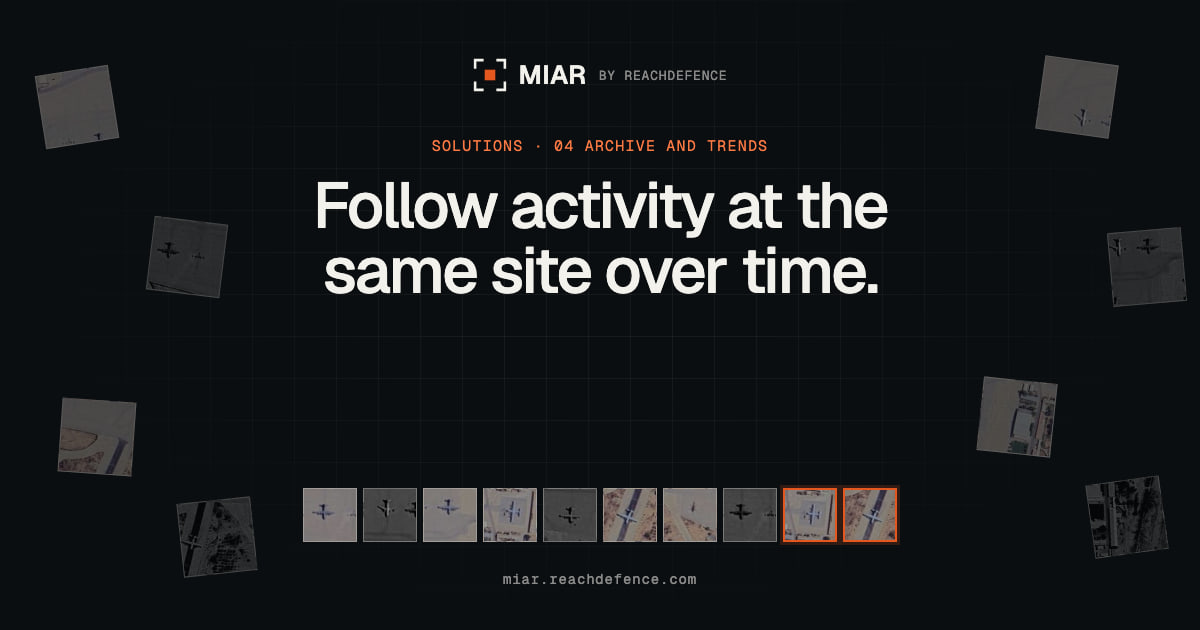
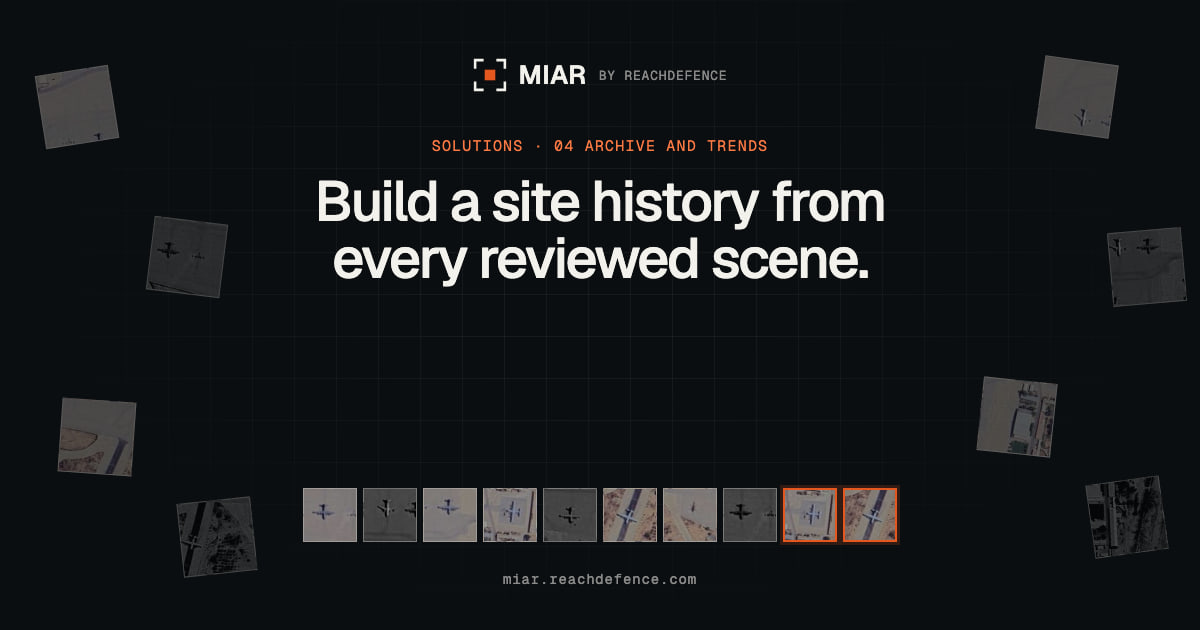
Rewrite solutions copy to the writing standard
- All five solution pages rewritten in operational language: scene, last
  usable scene, site record, detection, qualified finding, published
- Pull quotes replaced by a worked example from a pass that matches each
  page's visual; decorative quote marks removed from question lines
- Each page states its mechanism, failure mode and limits (role-level calls,
  ORBAT dependency for posture, revisit limiting trends, accreditation cycle)
- Solutions index intro rewritten; em-dash label placeholders removed
- Social cards regenerated for the new titles

Changed region(s): [[0.2467, 0.2714, 0.74, 0.4825]]

diff --git a/src/data/solutions.ts b/src/data/solutions.ts
@@ -6,7 +6,7 @@ export type Solution = {
   question: string;
   title: string;
   summary: string;
-  thesis: string;
+  example: string;
   problemTitle: string;
   problem: string;
   approachTitle: string;
@@ -17,36 +17,40 @@ export type Solution = {
   visual: "scene" | "monitor" | "compare" | "trend" | "delivery";
 };
 
+// Terms used consistently across these pages:
+// scene (the imagery product), last usable scene (the baseline), site record,
+// detection (detector output) becoming a finding once an analyst qualifies it, published.
+
 export const solutions: Solution[] = [
   {
     slug: "tactical-isr",
     number: "01",
     eyebrow: "Tactical ISR",
     name: "Tactical ISR",
-    question: "What is at the site right now?",
-    title: "See what is happening at a monitored site now.",
+    question: "What is on the site in the latest scene, and what is different?",
+    title: "Exploit each new scene of a site against its last usable scene.",
     summary:
-      "Review the latest imagery of an airfield, base, port, route, or launch area against what was there before.",
-    thesis:
-      "The latest pass is useful when an analyst can place it against a known baseline and answer the question at hand.",
-    problemTitle: "A new image still needs context.",
+      "For airbases, naval bases, ports and garrisons under routine watch. MIAR co-registers each new scene to the site's last usable scene, runs the aircraft and ship detectors, and lists what is new, moved or absent for the analyst to qualify.",
+    example:
+      "A 0.5 m EO scene of an airbase arrives at 06:42Z. The two passes before it were more than 80% cloud, so the last usable scene is four days old. MIAR compares against that scene, finds seven aircraft and flags four as off their previous stands. The analyst reviews those four detections first instead of recounting the whole apron.",
+    problemTitle: "Every new scene starts with a manual recount.",
     problem:
-      "An image may show aircraft, vehicles, equipment, or construction. It does not say which activity is new, whether it is routine, or what deserves attention. That judgement requires comparison and review.",
-    approachTitle: "Review the latest pass against a known baseline.",
+      "Before anything in a new scene can be called new, the analyst has to find the previous usable scene, often in a different provider portal, allow for a different look angle and sun position, and recount the site. Across a watchlist of dozens of sites with daily revisit, that recount takes most of the day and is repeated on every pass.",
+    approachTitle: "Compare with the last usable scene and queue only the differences.",
     approach: [
-      "Place current and earlier images of the same site in one review sequence.",
-      "Surface visible objects and scene differences for analyst confirmation.",
-      "Keep the source image, comparison, confidence, and review decision together.",
+      "Orthorectify the new scene and co-register it to the last usable scene of the same site. Passes above the cloud threshold or outside the look-angle limit are not used as baselines.",
+      "Run the aircraft and ship detectors, then match each detection to the previous scene by position and type: held, moved, new or absent.",
+      "Queue the new, moved and absent detections for the analyst, highest confidence first, with chips from both scenes side by side.",
     ],
+    outputTitle: "A qualified current-state record of the site.",
     outputs: [
-      "Current asset count by visible class",
-      "Movement and site-status observations",
-      "Analyst-reviewed findings",
-      "Source imagery and comparison evidence",
+      "Detections by class and type, each with its confidence",
+      "Held, moved, new and absent status against the last usable scene",
+      "The analyst's decision and note on each flagged detection",
+      "Both source scenes, with acquisition time, GSD and look angle",
     ],
-    outputTitle: "A current assessment with the evidence attached.",
     outcome:
-      "The result is a concise account of what is present and what changed, backed by the imagery used to reach it.",
+      "The finding is published to the operational picture as soon as the flagged detections are qualified. Where the scene only supports a role call, the aircraft is published at role level until a better scene arrives.",
     visual: "scene",
   },
   {
@@ -54,30 +58,31 @@ export const solutions: Solution[] = [
     number: "02",
     eyebrow: "Asset Monitoring",
     name: "Asset monitoring",
-    question: "How many, of what, and exactly where?",
-    title: "Maintain a current picture of assets at high-value sites.",
+    question: "How many of each type are on the site, and where is each one parked?",
+    title: "Count aircraft and ships by type, and keep where each one was.",
     summary:
-      "Count and locate visible aircraft, vessels, vehicles, and equipment across repeated coverage of the same site.",
-    thesis:
-      "Five aircraft in a hardened shelter area can mean something different from five aircraft dispersed across an apron.",
-    problemTitle: "The count is only part of the picture.",
+      "Counts by type for every reviewed scene of a site, with each detection's position kept against the installation layout. A change in dispersal or parking pattern is recorded even when the totals stay the same.",
+    example:
+      "Two scenes a week apart both show five transport aircraft and one maritime patrol aircraft. In the second scene two of the transports have moved from the main apron to the eastern hardstand, and a helicopter has arrived. A register of totals records no change for the transports. The MIAR register records the same count, the two stand changes and the new helicopter.",
+    problemTitle: "A register of totals loses dispersal.",
     problem:
-      "Manual counts take time and vary between reviewers. Counts also miss changes in spacing, concentration, dispersal, and placement that may matter more than the total.",
-    approachTitle: "Count the assets. Keep their position and layout.",
+      "On a busy apron, manual counts by different analysts on different days disagree by one or two airframes, and a spreadsheet of totals keeps no record of where each aircraft was. Dispersal to hardstands, movement into shelters and concentration on one apron are the changes an ORBAT team needs, and they are lost once only the number is written down.",
+    approachTitle: "Detect by type, keep each position, and have the analyst confirm.",
     approach: [
-      "Detect and tabulate visible assets by class.",
-      "Compare their position, spacing, and distribution with earlier scenes.",
-      "Require analyst qualification before a detection is treated as reviewed intelligence.",
+      "Detect aircraft and ships as oriented boxes and classify them down the class, family and type hierarchy. Where the scene cannot support a type call, the detection stays at role level.",
+      "Store each detection's position against the site's installation layout: apron, hardstand, shelter row or berth.",
+      "Compare the layout with the previous reviewed scene and mark stand and berth changes as well as count changes.",
+      "Write only analyst-qualified detections into the register.",
     ],
+    outputTitle: "A register of what was where, scene by scene.",
     outputs: [
-      "Counts by visible asset class",
-      "Changes in distribution and density",
-      "Site-level review notes",
-      "Review history and source provenance",
+      "Counts by class and type",
+      "Position of each asset against the installation layout",
+      "Stand and berth changes against the previous reviewed scene",
+      "The scene reference and analyst decision behind every row",
     ],
-    outputTitle: "A site record that preserves more than totals.",
     outcome:
-      "Each review adds to a site record showing what was present, where it was located, and how the layout changed.",
+      "The register feeds ORBAT strength and disposition directly. Aircraft held at role level are counted at role level, so strength by type is never raised by an unconfirmed type call.",
     visual: "monitor",
   },
   {
@@ -85,30 +90,31 @@ export const solutions: Solution[] = [
     number: "03",
     eyebrow: "Change and Posture",
     name: "Change and posture",
-    question: "Is this routine movement, or something new?",
+    question: "Is a change at the site routine, or a change in posture?",
     title: "Separate routine movement from a change in posture.",
     summary:
-      "Compare two scenes, identify the objects involved, and review whether the difference matters.",
-    thesis:
-      "The relevant question is not whether the pixels changed. It is what changed on the ground.",
-    problemTitle: "Most visible change is not a warning.",
+      "Object-level change detection between two scenes of the same site, correlated with the installation layout and the ORBAT. Analysts review changes to the objects on the ground, with differences caused by shadow, season or viewing geometry filtered out before review.",
+    example:
+      "Pixel differencing of the 2025 and 2026 scenes of the monitored airbase flags long shadows, a resurfaced taxiway and a dozen vehicles. The object-level comparison reports the same six fixed-wing aircraft, three of them in new positions with one on the taxiway, and a rotary-wing aircraft that was not in the earlier scene. Those four changes are the only items sent to the analyst.",
+    problemTitle: "Most pixel change comes from geometry, light and season.",
     problem:
-      "Cloud, shadow, season, viewing angle, construction, and routine movement can all trigger a change result. Without object and site context, the analyst receives noise.",
-    approachTitle: "Identify the object before judging the change.",
+      "Two scenes taken months apart differ in sun angle, shadow length, look angle, atmosphere and often sensor. Differencing the pixels turns all of that into candidate change. Without knowing which objects are present and where the installation's aprons, shelters and berths are, the analyst has to dismiss most of the flags by eye.",
+    approachTitle: "Compare objects, then assess the change against the site.",
     approach: [
-      "Align the current scene with the selected baseline.",
-      "Check detected objects, movement, structures, and layout together.",
-      "Send material differences to an analyst for disposition.",
+      "Co-register both scenes and limit the comparison to the installation's operating areas.",
+      "Match detections between the scenes by position and type instead of differencing pixels.",
+      "Correlate the changes with the site's ORBAT entry and its recent activity, so a routine rotation is assessed differently from a surge or a dispersal.",
+      "Send material changes to the analyst to accept, reject or annotate.",
     ],
+    outputTitle: "A reviewed change with its basis recorded.",
     outputs: [
-      "Before-and-after evidence",
-      "Object, position, and layout differences",
-      "Analyst disposition",
-      "Confidence and source provenance",
+      "Baseline and current scene chips for each change",
+      "Object, position and layout differences",
+      "The analyst's disposition and note",
+      "Detection confidence and scene provenance",
     ],
-    outputTitle: "A reviewed change with a clear basis.",
     outcome:
-      "The analyst can see the baseline, the current scene, the detected difference, and the reason a change was accepted or dismissed.",
+      "The posture assessment depends on ORBAT context. For a site with no ORBAT entry, MIAR still reports object-level change, and the posture call is left to the analyst.",
     visual: "compare",
   },
   {
@@ -116,30 +122,30 @@ export const solutions: Solution[] = [
     number: "04",
     eyebrow: "Archive and Trends",
     name: "Archive and trends",
-    question: "Is activity building up or winding down?",
-    title: "Follow activity at the same site over time.",
+    question: "Is activity at the site rising, falling or recurring?",
+    title: "Build a site history from every reviewed scene.",
     summary:
-      "Use earlier scenes and reviewed detections to see how a site changes across days, weeks, or longer periods.",
-    thesis:
-      "One image shows a moment. A sequence shows whether the activity is normal, rising, falling, or recurring.",
-    problemTitle: "A single scene hides the pattern.",
+      "Counts by type from every qualified scene of a site, plotted across weeks or months, with each point linked to the scene it came from.",
+    example:
+      "Across twelve monthly passes of the same airbase, transport presence stays between four and six aircraft. Rotary-wing aircraft appear for the first time in September and reach two by December. Exploited one delivery at a time, each of those scenes looks routine.",
+    problemTitle: "Single scenes hide slow build-ups and rotations.",
     problem:
-      "Reviewing each delivery in isolation makes it difficult to spot buildup, dispersal, recurring activity, or a change in the mix of assets at a site.",
-    approachTitle: "Use the same classes and questions across each review.",
+      "When each delivery is exploited on its own, the only comparison is with the previous scene. A build-up over several months, a weekly rotation or a new type arriving in small numbers never appears as one large change, so it goes unnoticed until someone rebuilds the history by hand from old reports.",
+    approachTitle: "Keep the class hierarchy fixed so every scene is comparable.",
     approach: [
-      "Select and align historical images of the site.",
-      "Record confirmed detections using a consistent class structure.",
-      "Plot presence by type while keeping every data point linked to its source scene.",
+      "Pull archive scenes of the site from licensed catalogues or public missions such as Sentinel and Landsat, and co-register them to the site.",
+      "Exploit every scene with the same detector version and class hierarchy, so a count from March means the same as a count from September.",
+      "Record only qualified detections in the history, and show gaps where no usable scene exists instead of interpolating across them.",
     ],
+    outputTitle: "A trend that traces back to the imagery.",
     outputs: [
-      "Image history for the site",
-      "Asset presence by type",
-      "Buildup and dispersal observations",
-      "Before-and-after comparisons",
+      "Presence by type for each reviewed scene",
+      "Build-up, dispersal and first-seen markers",
+      "Gaps marked where no usable scene exists",
+      "A link from every data point to its source scene",
     ],
-    outputTitle: "A site history that remains tied to the imagery.",
     outcome:
-      "Analysts can inspect the trend, open the scene behind any observation, and distinguish a one-off event from a sustained pattern.",
+      "What the trend can show is limited by revisit. At monthly revisit a weekly rotation is invisible, so the history shows the revisit interval alongside the counts and marks where more frequent collection would be needed to answer the question.",
     visual: "trend",
   },
   {
@@ -147,30 +153,31 @@ export const solutions: Solution[] = [
     number: "05",
     eyebrow: "Sovereign Delivery",
     name: "Sovereign delivery",
-    question: "Can we run this inside our own boundary?",
-    title: "Keep mission data and reviewed outputs under customer control.",
+    question: "Can exploitation run inside our own network, including disconnected?",
+    title: "Run exploitation and publishing inside the customer's boundary.",
     summary:
-      "Support controlled deployment and delivery where the customer retains authority over imagery, review, detectors, and approved findings.",
-    thesis:
-      "Using more than one imagery provider should not force the analysis and review process into more than one provider portal.",
-    problemTitle: "Every handoff adds a control point.",
+      "MIAR deploys on customer-controlled infrastructure, including disconnected networks. Imagery, detectors, analyst decisions and published findings stay inside that boundary, and nothing is published without analyst approval.",
+    example:
+      "In a disconnected deployment, scenes arrive over the customer's own delivery path, the detectors run on local hardware, and qualified findings are published to the customer's ORBAT and GIS services. Once the scene has been received the external network can be disconnected, and the exploitation thread still completes.",
+    problemTitle: "Each provider portal is another copy of the data.",
     problem:
-      "Imagery may pass through provider portals, processing systems, review teams, and downstream consumers. Access, provenance, and approval state need to survive those handoffs.",
-    approachTitle: "Keep collection sources separate from review authority.",
+      "Buying from several imagery providers usually means several portals, each with its own storage, viewer and export format. Scenes are copied between them and onto analysts' workstations, and the record of who reviewed what, and which version was briefed, is split across those copies.",
+    approachTitle: "One exploitation environment behind every provider, under customer control.",
     approach: [
-      "Accept imagery from multiple providers into one downstream review process.",
-      "Attach evidence, analyst action, and approval state to each derived finding.",
-      "Support controlled integration and deployment patterns, including sovereign environments where required.",
+      "Ingest each provider's deliveries in their native formats, such as GeoTIFF or COG, NITF, JPEG 2000 and STAC, into one environment.",
+      "Run detection, comparison and analyst review inside that environment, with access managed through the customer's identity provider.",
+      "Publish qualified findings to existing systems over OGC API, WFS or GeoJSON, with provenance attached.",
+      "Deploy on premises, in a sovereign cloud or on an air-gapped network.",
     ],
+    outputTitle: "Findings that keep their evidence chain inside the boundary.",
     outputs: [
-      "Controlled intelligence delivery",
-      "Provenance attached to reviewed findings",
-      "API and briefing-ready output formats",
-      "Deployment options aligned with customer authority",
+      "Published findings with the scene, detector version and analyst decision attached",
+      "Feeds for ORBAT, GIS and briefing systems",
+      "An audit log of every review and export",
+      "Deployment on premises, in a sovereign cloud or disconnected",
     ],
-    outputTitle: "Reviewed intelligence that keeps its chain of evidence.",
     outcome:
-      "MIAR sits between imagery supply and the teams or systems that consume reviewed intelligence, without claiming ownership of the collection itself.",
+      "In a disconnected deployment, detector updates arrive through the customer's own transfer process, so model updates follow the customer's accreditation cycle rather than a vendor release schedule.",
     visual: "delivery",
   },
 ];

diff --git a/src/styles/global.css b/src/styles/global.css
@@ -2175,13 +2175,7 @@ h3 {
   letter-spacing: -0.01em;
 }
 
-.case-q::before {
-  content: "“";
-}
 
-.case-q::after {
-  content: "”";
-}
 
 .case-arrow {
   justify-self: end;
@@ -3167,15 +3161,7 @@ h3 {
   max-width: 900px;
 }
 
-.solution-thesis blockquote::before {
-  content: "“";
-  color: var(--signal);
-}
 
-.solution-thesis blockquote::after {
-  content: "”";
-  color: var(--signal);
-}
 
 @media (max-width: 860px) {
   .solution-thesis {
@@ -5633,4 +5619,15 @@ body:has(.field-hero.is-flow) .site-header-home:not(.is-scrolled) {
   border-bottom-color: var(--night-rule);
   backdrop-filter: saturate(1.4) blur(14px);
   -webkit-backdrop-filter: saturate(1.4) blur(14px);
+}
+
+
+/* Solution pages: a worked example in place of a pull quote. */
+.solution-example {
+  max-width: 820px;
+  font-size: clamp(1.15rem, 1.6vw, 1.35rem);
+  line-height: 1.55;
+  color: var(--ink);
+  padding-left: 20px;
+  border-left: 2px solid var(--signal);
 }
